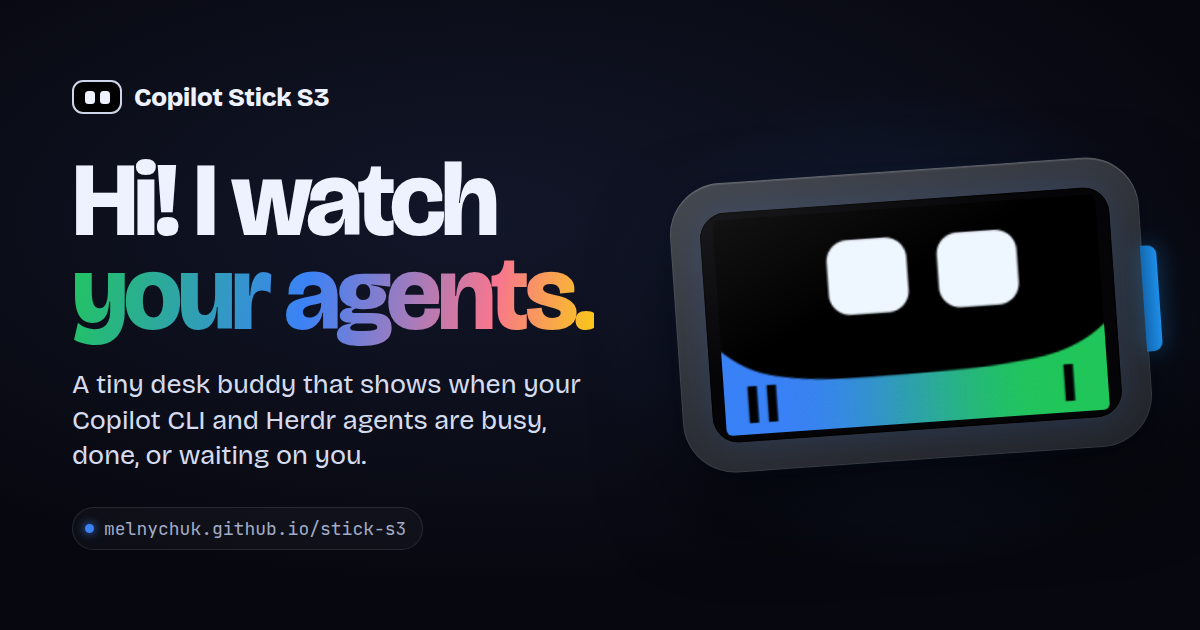
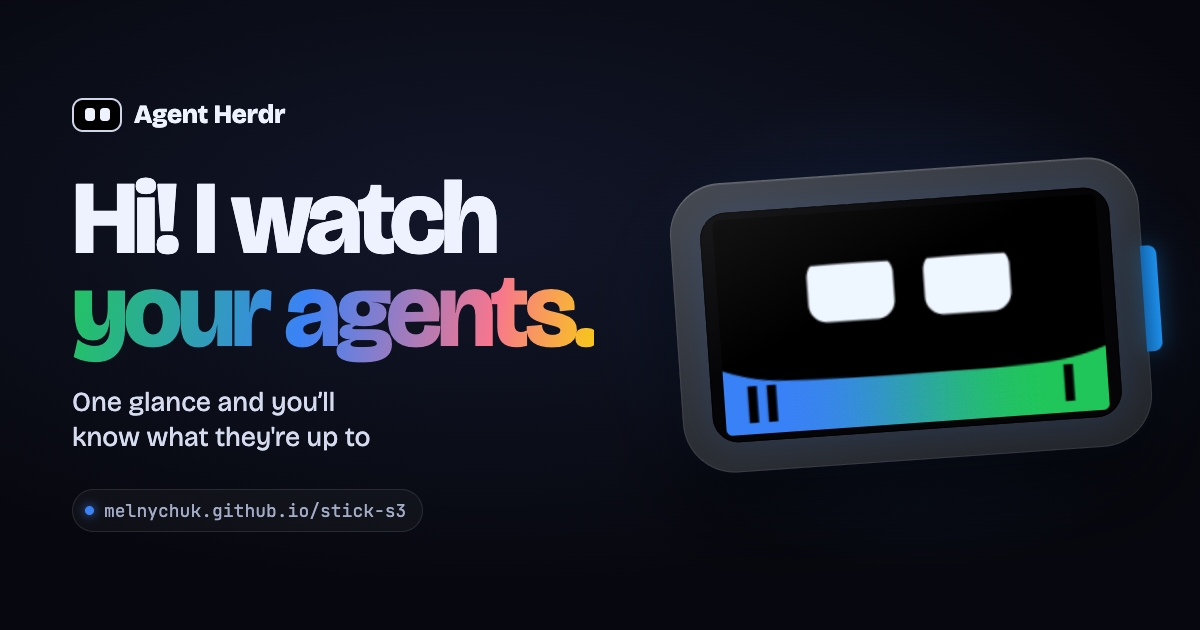
Rebrand the product site as Agent Herdr

diff --git a/site/index.html b/site/index.html
@@ -3,27 +3,27 @@
 <head>
   <meta charset="utf-8">
   <meta name="viewport" content="width=device-width, initial-scale=1, viewport-fit=cover">
-  <title>Copilot Stick S3: a tiny face for your agents</title>
-  <meta name="description" content="An M5Stack StickS3 desk buddy that shows when your GitHub Copilot CLI and Herdr agents are working, need you, or are done.">
+  <title>Agent Herdr</title>
+  <meta name="description" content="An agent-agnostic desk buddy for Herdr. See when your coding agents are working, need you, or are done on a StickS3 or in Herdr Desktop.">
   <meta name="theme-color" content="#07080f">
   <link rel="canonical" href="https://melnychuk.github.io/stick-s3/">
   <!-- Link previews (Teams, Slack, X, LinkedIn...). Re-render the image with
        scripts/render-social-card.sh; unfurlers need absolute URLs. -->
   <meta property="og:type" content="website">
-  <meta property="og:site_name" content="Copilot Stick S3">
+  <meta property="og:site_name" content="Agent Herdr">
   <meta property="og:url" content="https://melnychuk.github.io/stick-s3/">
-  <meta property="og:title" content="Copilot Stick S3: a tiny face for your agents">
-  <meta property="og:description" content="An M5Stack StickS3 desk buddy that shows when your GitHub Copilot CLI and Herdr agents are working, need you, or are done.">
+  <meta property="og:title" content="Agent Herdr">
+  <meta property="og:description" content="An agent-agnostic desk buddy for Herdr. See when your coding agents are working, need you, or are done on a StickS3 or in Herdr Desktop.">
   <meta property="og:image" content="https://melnychuk.github.io/stick-s3/social-card.png">
   <meta property="og:image:type" content="image/png">
   <meta property="og:image:width" content="1200">
   <meta property="og:image:height" content="630">
-  <meta property="og:image:alt" content="The Copilot Stick S3 showing its face with two tasks in progress and one done, next to the headline: Hi! I watch your agents.">
+  <meta property="og:image:alt" content="The Agent Herdr avatar showing two tasks in progress and one done, next to the headline: Hi! I watch your agents.">
   <meta name="twitter:card" content="summary_large_image">
-  <meta name="twitter:title" content="Copilot Stick S3: a tiny face for your agents">
-  <meta name="twitter:description" content="An M5Stack StickS3 desk buddy that shows when your GitHub Copilot CLI and Herdr agents are working, need you, or are done.">
+  <meta name="twitter:title" content="Agent Herdr">
+  <meta name="twitter:description" content="An agent-agnostic desk buddy for Herdr. See when your coding agents are working, need you, or are done on a StickS3 or in Herdr Desktop.">
   <meta name="twitter:image" content="https://melnychuk.github.io/stick-s3/social-card.png">
-  <meta name="twitter:image:alt" content="The Copilot Stick S3 showing its face with two tasks in progress and one done, next to the headline: Hi! I watch your agents.">
+  <meta name="twitter:image:alt" content="The Agent Herdr avatar showing two tasks in progress and one done, next to the headline: Hi! I watch your agents.">
   <link rel="icon" href="favicon.svg" type="image/svg+xml">
   <link rel="preconnect" href="https://fonts.googleapis.com">
   <link rel="preconnect" href="https://fonts.gstatic.com" crossorigin>
@@ -48,7 +48,7 @@
   <header class="nav">
     <a class="brand" href="#top">
       <span class="brand-face" aria-hidden="true"><i></i><i></i></span>
-      Copilot Stick S3
+      Agent Herdr
     </a>
     <nav>
       <a href="#play">Playground</a>
@@ -69,7 +69,7 @@
         <!-- The Herdr screenshots slide in as the stick flies away.
              scripts/capture-herdr-shot.py makes them. -->
         <figure class="stage-shot" data-theme="dark">
-          <img class="hs-dark" src="media/herdr-dark.webp" width="1400" height="863" fetchpriority="low" decoding="async" alt="Herdr Desktop in a dark theme: the Stick avatar sits above Agents while Copilot CLI works in the acme-api space">
+          <img class="hs-dark" src="media/herdr-dark.webp" width="1400" height="863" fetchpriority="low" decoding="async" alt="Herdr Desktop in a dark theme: the Stick avatar sits above Agents while an agent works in the acme-api space">
           <img class="hs-light" src="media/herdr-light.webp" width="1400" height="863" fetchpriority="low" decoding="async" alt="The same Herdr Desktop window in a light theme, with the Stick avatar's light face">
         </figure>
         <div class="loading" aria-hidden="true"><span></span><span></span></div>
@@ -96,11 +96,11 @@
                 <svg viewBox="0 0 24 24" width="18" height="18" aria-hidden="true"><path d="M6 9l6 6 6-6" fill="none" stroke="currentColor" stroke-width="2.2" stroke-linecap="round" stroke-linejoin="round"/></svg>
               </a>
               <div class="card">
-                <p class="eyebrow"><span class="dot"></span> M5Stack StickS3 · Copilot CLI · Herdr</p>
+                <p class="eyebrow"><span class="dot"></span> Agent-agnostic · Powered by Herdr</p>
                 <h1>Hi! I watch<br><span class="squiggle">your agents.</span></h1>
-                <p class="lead">Busy, done, or waiting on you? One look at me and you’ll know.</p>
+                <p class="lead">One glance and you’ll know what they're up to</p>
                 <p class="realdeal"><svg class="no-video" viewBox="0 0 32 32" aria-hidden="true"><g fill="none" stroke="currentColor" stroke-width="2" stroke-linejoin="round"><rect x="5" y="4" width="22" height="24" rx="3"/><path d="M10 4v24M22 4v24"/></g><g fill="currentColor"><rect x="6.5" y="7" width="2" height="2.4" rx=".6"/><rect x="6.5" y="12.2" width="2" height="2.4" rx=".6"/><rect x="6.5" y="17.4" width="2" height="2.4" rx=".6"/><rect x="6.5" y="22.6" width="2" height="2.4" rx=".6"/><rect x="23.5" y="7" width="2" height="2.4" rx=".6"/><rect x="23.5" y="12.2" width="2" height="2.4" rx=".6"/><rect x="23.5" y="17.4" width="2" height="2.4" rx=".6"/><rect x="23.5" y="22.6" width="2" height="2.4" rx=".6"/></g><path class="cut" d="M4 28 28 4"/><path class="strike" d="M4 28 28 4"/></svg><span><b>Not a video:</b> that’s really me, running right here in your browser.</span></p>
-<pre data-copy class="install"><code>Set up my Copilot Stick S3 using https://melnychuk.github.io/stick-s3/install.md</code></pre>
+<pre data-copy class="install"><code>Set up Agent Herdr using https://melnychuk.github.io/stick-s3/install.md</code></pre>
                 <p class="tiny install-note">Paste into your coding agent (Linux or macOS) · <a href="#setup">or install it yourself</a></p>
               </div>
             </div>
@@ -277,8 +277,8 @@
       <h2>How it works</h2>
       <p class="sub">No cloud, no accounts. A small Python bridge on your machine watches your agent sessions and pushes a status line over USB serial.</p>
       <ol class="flow">
-        <li><span class="step">1</span><strong>Your agents</strong><span>Copilot CLI sessions (auto-discovered) and native Herdr instances (registered), on Linux or macOS.</span></li>
-        <li><span class="step">2</span><strong>The bridge</strong><span>Counts active, waiting and finished turns from unmatched turn/tool events. Metadata never fakes “busy”.</span></li>
+        <li><span class="step">1</span><strong>Your agents</strong><span>Use any coding agent Herdr can report status for. No specific agent or model provider is required.</span></li>
+        <li><span class="step">2</span><strong>The bridge</strong><span>Reads Herdr task status on Linux or macOS and counts agents that are working, waiting or done.</span></li>
         <li><span class="step">3</span><strong>USB serial</strong><span>Binary frames: status down; key taps, focus requests and push-to-talk audio up.</span></li>
         <li><span class="step">4</span><strong>The stick</strong><span>Renders the face in software with a fixed-step spring rim and a CPU “shader” fluid field.</span></li>
       </ol>
@@ -296,8 +296,8 @@
           <button role="tab" aria-selected="false" data-target="manual">By hand</button>
         </div>
         <div data-panel="agent">
-          <p>Paste this into Copilot CLI, Pi or any coding agent. <a href="install.md">install.md</a> tells it how to check your setup, ask before flashing or enabling dictation, run the installer and verify the Stick with you.</p>
-<pre data-copy><code>Set up my Copilot Stick S3 using https://melnychuk.github.io/stick-s3/install.md</code></pre>
+          <p>Paste this into your coding agent of choice. <a href="install.md">install.md</a> tells it how to check your setup, ask before flashing or enabling dictation, run the installer and verify the Stick with you.</p>
+<pre data-copy><code>Set up Agent Herdr using https://melnychuk.github.io/stick-s3/install.md</code></pre>
         </div>
         <div data-panel="install" hidden>
           <p>Linux or macOS. Downloads the bridge to <code>~/.local/share/stick-s3</code>, finds your Herdr setup and starts it at login. No sudo; nothing leaves your machine.</p>
@@ -334,7 +334,7 @@ python3 -m venv .venv && .venv/bin/pip install numpy
   </main>
 
   <footer>
-    <p><span class="brand-face small" aria-hidden="true"><i></i><i></i></span> Copilot Stick S3 · a side project on M5Stack StickS3 · <a href="https://github.com/melnychuk/stick-s3">source on GitHub</a>.</p>
+    <p><span class="brand-face small" aria-hidden="true"><i></i><i></i></span> Agent Herdr · a side project on M5Stack StickS3 · <a href="https://github.com/melnychuk/stick-s3">source on GitHub</a>.</p>
     <p class="fine">The screen runs <code>firmware/*.h</code> via <code>scripts/build-site-wasm.sh</code>. Shell modelled from M5Stack product photos. Eyes first grew out of <a href="https://github.com/FluxGarage/RoboEyes">FluxGarage RoboEyes</a>. MIT licensed.</p>
   </footer>
 

diff --git a/scripts/social-card.html b/scripts/social-card.html
@@ -26,7 +26,7 @@
     .brand-face i { width: 10px; height: 13px; border-radius: 3.5px; background: var(--ink); }
     h1 { margin: 0 0 26px; font-size: 104px; line-height: .9; letter-spacing: -.045em; font-weight: 800; }
     .squiggle { background: linear-gradient(100deg, var(--green), var(--blue) 45%, var(--coral) 80%, var(--yellow)); -webkit-background-clip: text; background-clip: text; color: transparent; }
-    .lead { margin: 0 0 34px; font-size: 27px; line-height: 1.3; color: #d6dcef; max-width: 520px; }
+    .lead { margin: 0 0 34px; font-size: 27px; line-height: 1.3; color: #d6dcef; max-width: 520px; text-wrap: balance; }
     .url { display: inline-flex; align-items: center; gap: 10px; width: fit-content; padding: 9px 16px 9px 12px; border: 1px solid var(--line); border-radius: 99px; background: #ffffff08; font: 18px var(--mono); color: var(--muted); }
     .url .dot { width: 9px; height: 9px; border-radius: 50%; background: var(--blue); box-shadow: 0 0 10px var(--blue); }
 
@@ -40,9 +40,9 @@
 </head>
 <body>
   <div class="copy">
-    <div class="brand"><span class="brand-face"><i></i><i></i></span>Copilot Stick S3</div>
+    <div class="brand"><span class="brand-face"><i></i><i></i></span>Agent Herdr</div>
     <h1>Hi! I watch<br><span class="squiggle">your agents.</span></h1>
-    <p class="lead">A tiny desk buddy that shows when your Copilot CLI and Herdr agents are busy, done, or waiting on you.</p>
+    <p class="lead">One glance and you’ll know what they're up to</p>
     <span class="url"><span class="dot"></span>melnychuk.github.io/stick-s3</span>
   </div>
   <div class="stick"><div class="bezel"><canvas id="screen" width="240" height="135"></canvas></div><div class="gloss"></div></div>

diff --git a/site/js/device.js b/site/js/device.js
@@ -405,10 +405,11 @@ export class Device {
     g.fill();
     g.fillStyle = "#111";
     g.font = `800 40px "Bricolage Grotesque", system-ui, sans-serif`;
-    g.fillText("Copilot Stick S3", 560, 360);
+    g.fillText("Agent Herdr", 560, 360);
     g.fillStyle = "#666";
     g.font = `500 28px "JetBrains Mono", monospace`;
-    g.fillText("a tiny face for your agents", 560, 410);
+    g.fillText("One glance and you’ll know", 560, 410);
+    g.fillText("what they're up to", 560, 446);
     // M5 STACK block + KEY1 note, near the USB end like the real label.
     g.fillStyle = "#2b7de0";
     g.font = `800 120px "Bricolage Grotesque", system-ui, sans-serif`;

diff --git a/site/install.md b/site/install.md
@@ -1,9 +1,10 @@
-# Install Copilot Stick S3 — instructions for a coding agent
+# Install Agent Herdr — instructions for a coding agent
 
-You are helping a person set up **Copilot Stick S3**: an M5Stack StickS3 that
-shows what their Herdr / GitHub Copilot CLI agents are doing (blue = working,
-green = finished, yellow = needs you), opens the next task on a key press and,
-on Linux, takes push-to-talk dictation with local CPU speech recognition.
+You are helping a person set up **Agent Herdr** on an M5Stack StickS3. It reads
+status from Herdr, so there’s no requirement to use a specific coding agent or
+model provider. The Stick shows when agents are working (blue), finished (green),
+or need you (yellow), opens the next task on a key press and, on Linux, takes
+push-to-talk dictation with local CPU speech recognition.
 
 The heavy lifting is done by a tested installer script. Your job is to check
 the machine, explain the choices, get the person's consent where needed, run
